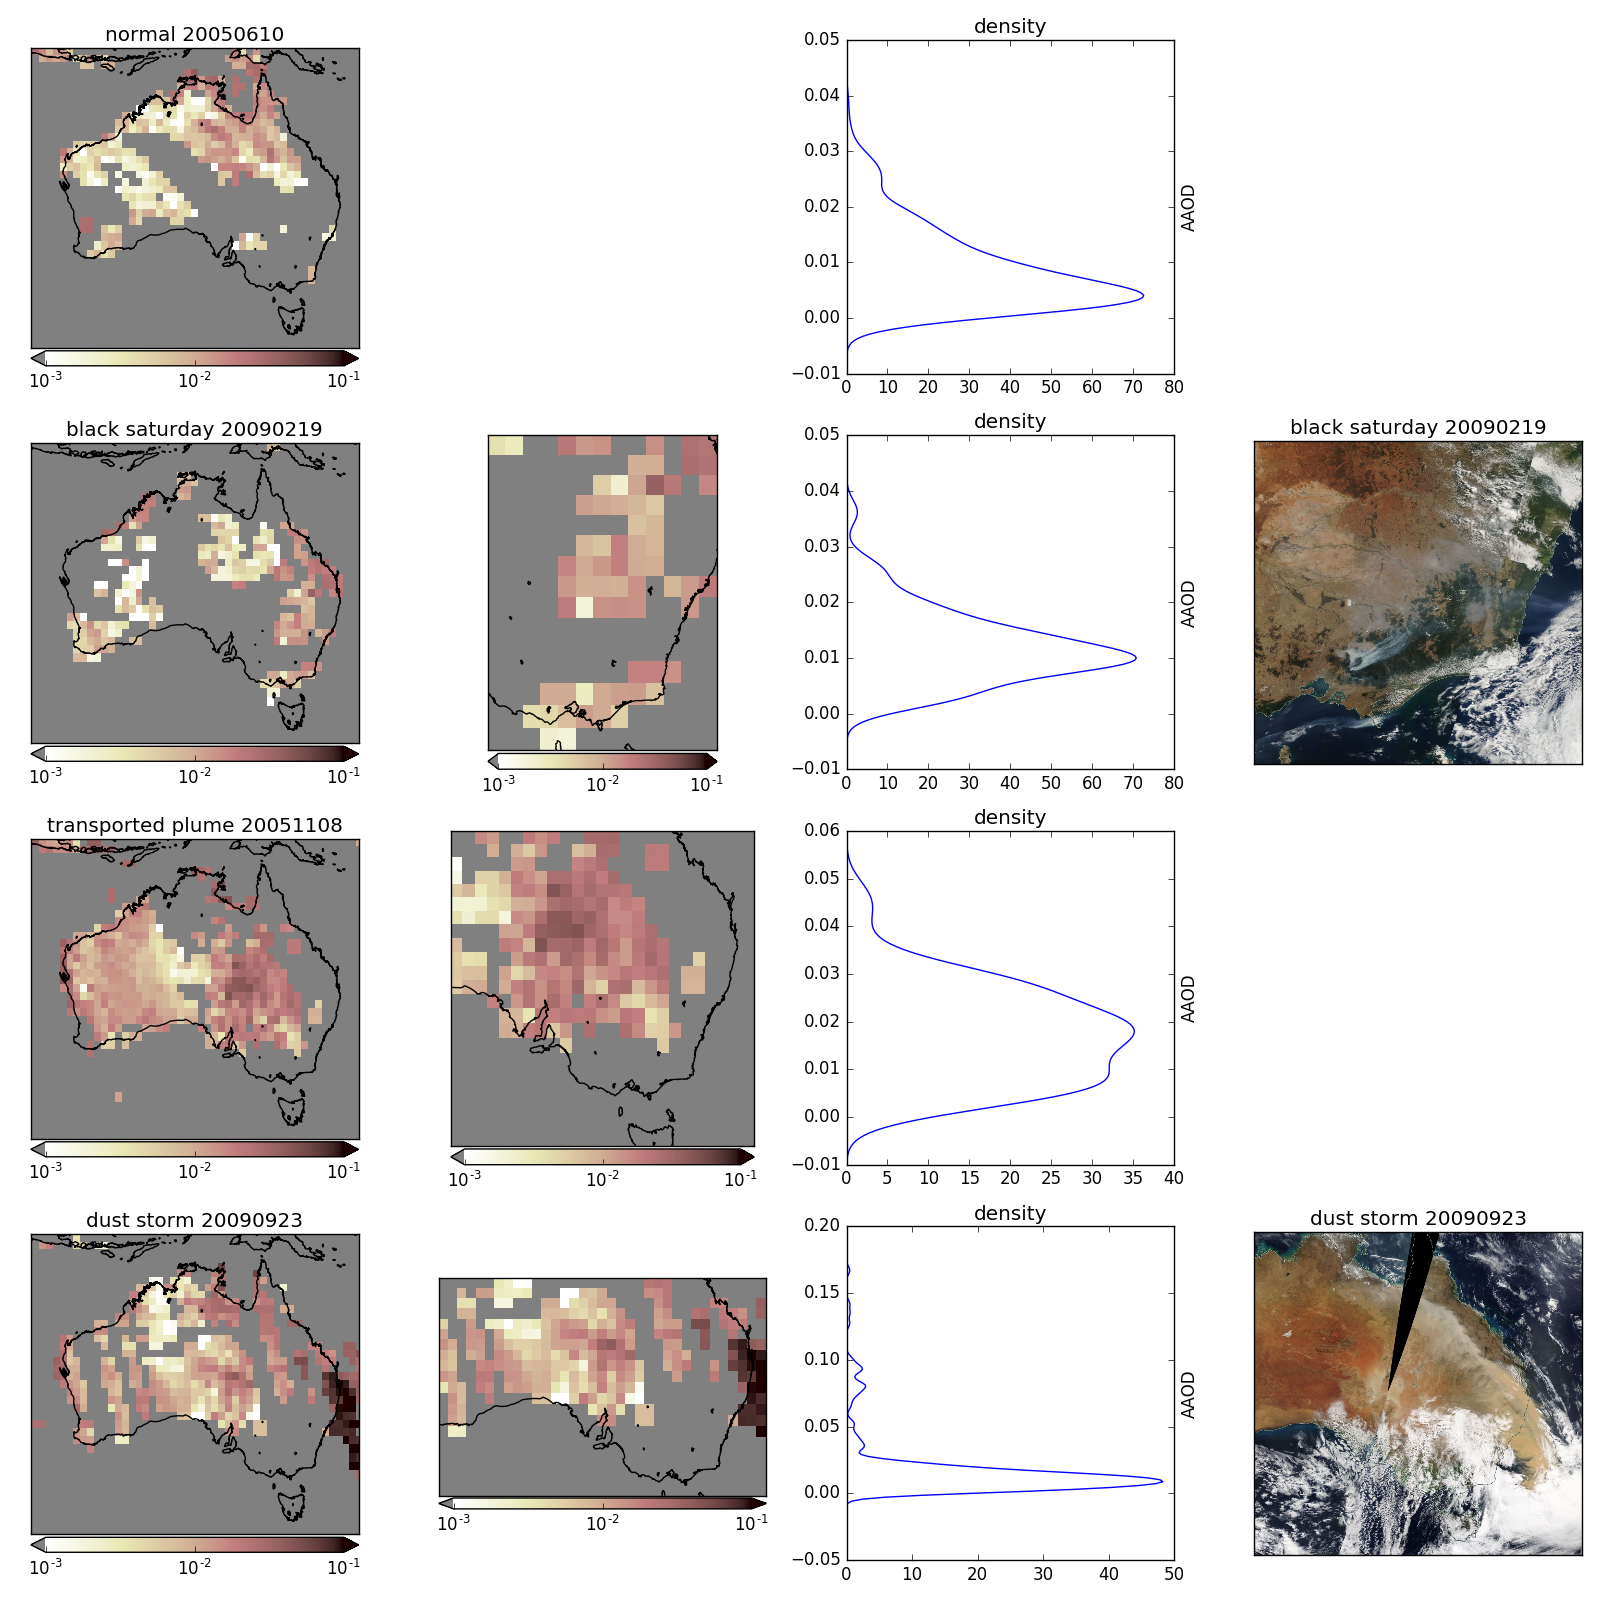
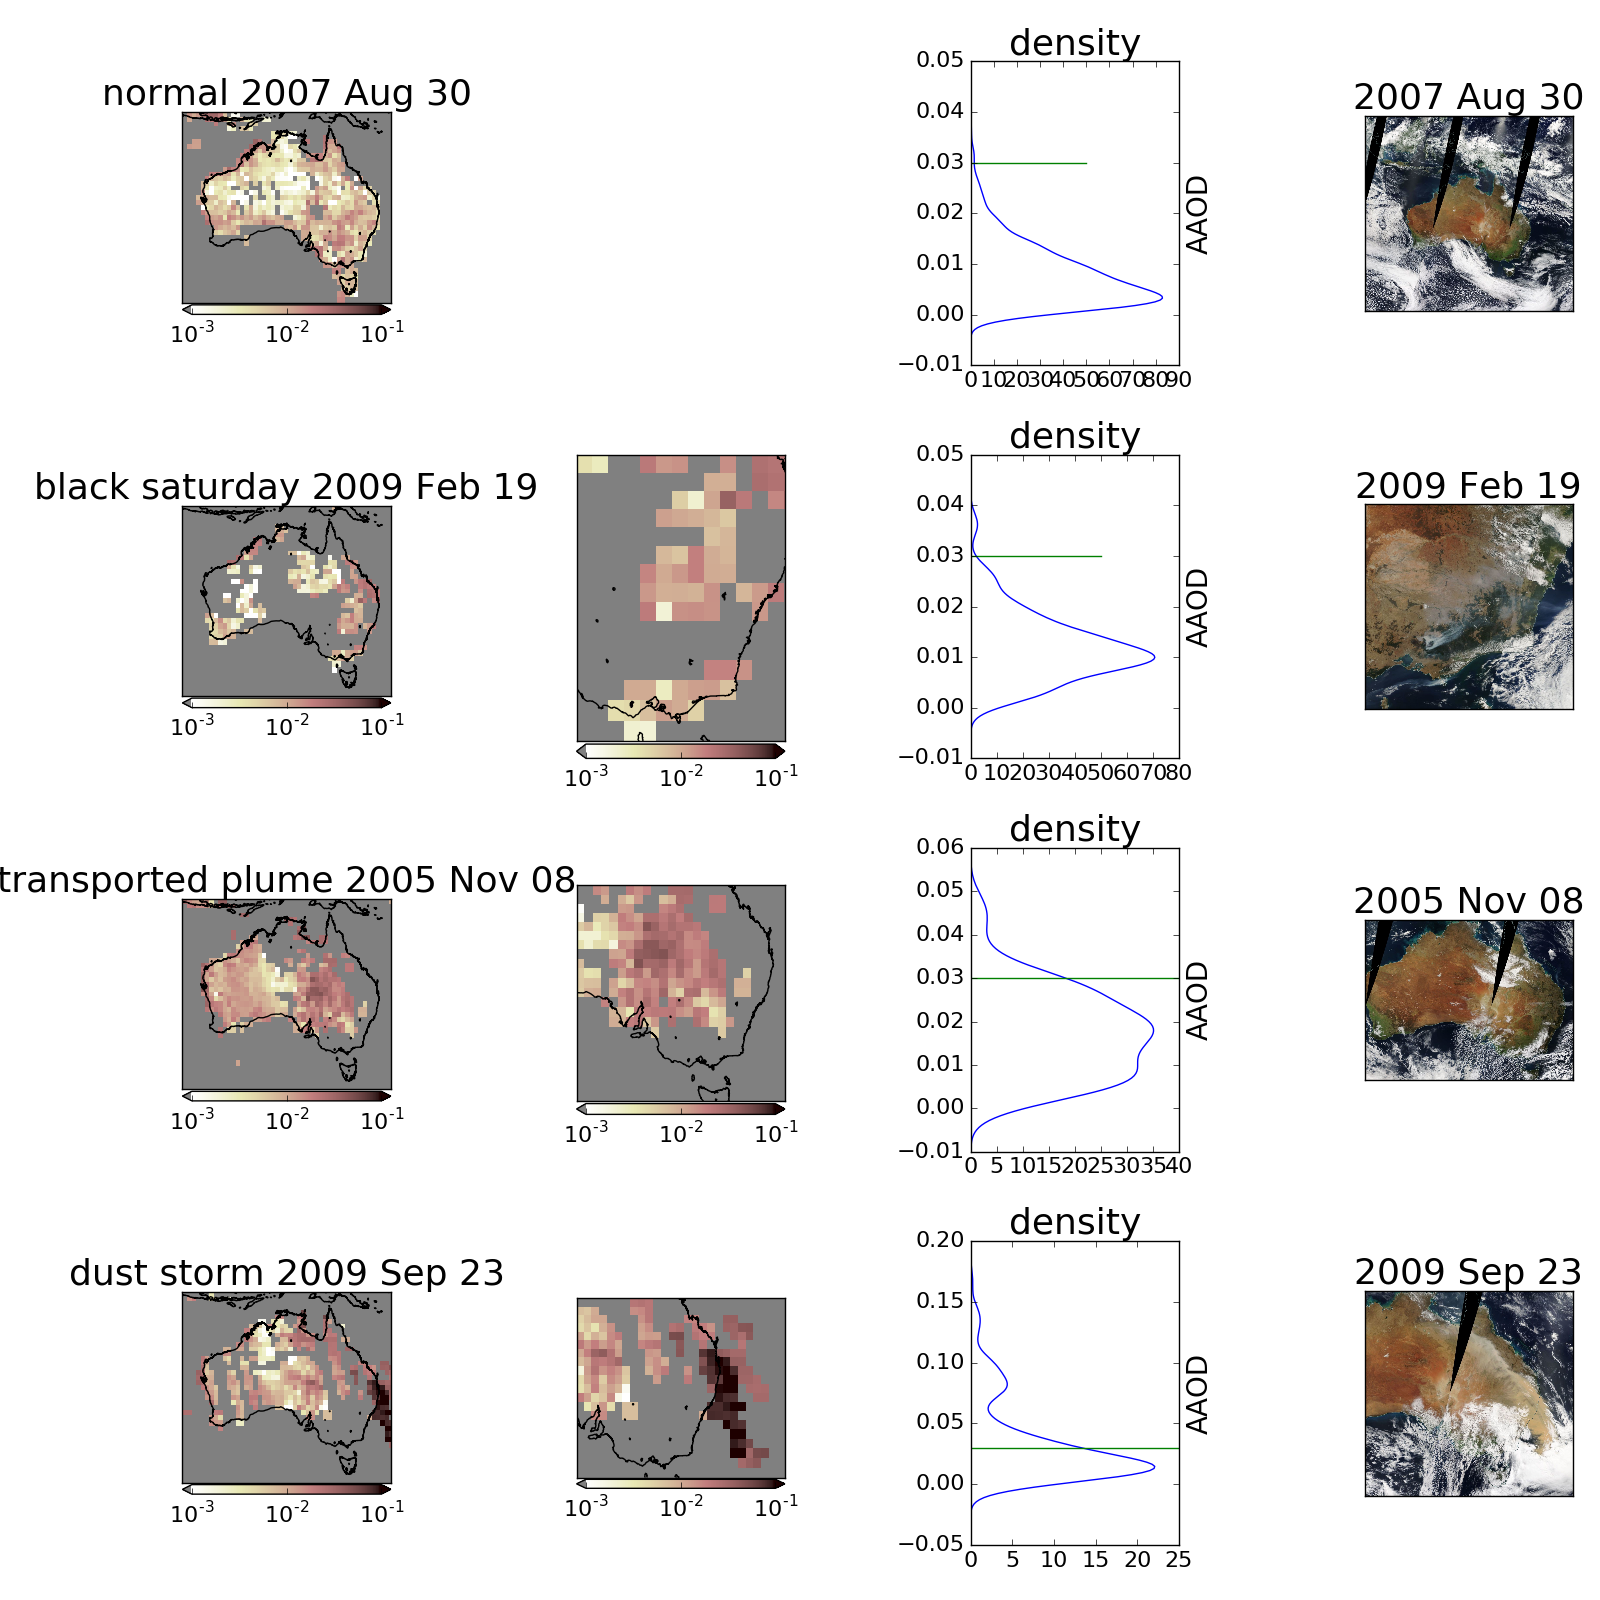
Updated typical aaod plotting

diff --git a/tests.py b/tests.py
@@ -82,40 +82,50 @@ def typical_aaods():
     '''
 
     # read particular days of aaod
-    dates = [ datetime(2005,6,10), datetime(2009,2,19),
+    dates = [ datetime(2007,8,30), datetime(2009,2,19),
               datetime(2005,11,8), datetime(2009,9,23) ]
 
     # plot stuff
     plt.figure(figsize=(16,16))
     titles=['normal','black saturday','transported plume','dust storm']
     region=pp.__AUSREGION__
-    zooms=[None,[-40,140,-25,153],[-42,130,-20,155],[-40,120,-20,155]]
-    TerraModis=[None,
+    zooms=[None,[-40,140,-25,153],[-42,130,-20,155],[-40,135,-20,162]]
+    TerraModis=['Figs/TerraModis_Clear_20070830.png',
                 'Figs/TerraModis_BlackSaturday_20090219.png',
-                None,
+                'Figs/TerraModis_TransportedSmoke_20050811.png',
                 'Figs/TerraModis_DustStorm_20090923.png']
     vmin=1e-3
     vmax=1e-1
     cmapname='pink_r'
     linear=False
+    thresh=0.03
 
     for i,day in enumerate(dates):
         zoom=region
         plt.subplot(4,4,1+i*4)
-
-        title = titles[i] + day.strftime(' %Y%m%d')
+        ymd=day.strftime('%Y %b %d')
+        title = titles[i] +' '+ ymd
         aaod, lats, lons = fio.read_AAOD(day)
-        pp.createmap(aaod, lats, lons, title=title, region=zoom,
-                     vmin=vmin, vmax=vmax, linear=linear, cmapname=cmapname)
+        m, cs, cb = pp.createmap(aaod, lats, lons, title=title, region=zoom,
+                                 vmin=vmin, vmax=vmax, linear=linear,
+                                 cmapname=cmapname)
+
+        # Add hatch over threshhold values (if they exists)
+        #(m, data, lats, lons, thresh, region=None):
+        pp.hatchmap(m,aaod,lats,lons,thresh,region=zoom, hatch='x',color='blue')
 
         if zooms[i] is not None:
             zoom=zooms[i]
             plt.subplot(4,4,2+i*4)
-            pp.createmap(aaod, lats, lons ,region=zoom,
-                     vmin=vmin, vmax=vmax, linear=linear, cmapname=cmapname)
+            m,cs,cb= pp.createmap(aaod, lats, lons ,region=zoom,
+                                  vmin=vmin, vmax=vmax, linear=linear,
+                                  cmapname=cmapname)
+            # Add hatch to minimap also
+            pp.hatchmap(m,aaod,lats,lons,thresh,region=zoom, hatch='x',color='blue')
 
         plt.subplot(4,4,3+i*4)
         aaod, lats, lons = pp.density(aaod,lats,lons,region=zoom, vertical=True)
+        plt.plot([0,50],[thresh,thresh]) # add line for thresh
         plt.title('density')
         plt.ylabel('AAOD')
         plt.gca().yaxis.set_label_position("right")
@@ -126,7 +136,7 @@ def typical_aaods():
         if TerraModis[i] is not None:
             plt.subplot(4,4,4+i*4)
             pp.plot_img(TerraModis[i])
-            plt.title(title)
+            plt.title(ymd)
 
     plt.tight_layout()
     pname='Figs/typical_AAODs.png'
@@ -144,11 +154,15 @@ def smoke_vs_fire(d0=datetime(2005,1,1),dN=datetime(2005,1,31),region=pp.__AUSRE
         dN = d0
 
     dNstr=dN.strftime('%Y%m%d')
+    n_times=(dN-d0).days + 1
 
-    # Read the omhchorp product from d0-dN
-    data=omrp(day0=d0,dayn=dN, keylist=['AAOD','fires'])
-    lats=data.lats
-    lons=data.lons
+    # Read the products from modis and omi, interpolated to 1x1 degrees
+    fires, _dates, _modlats, _modlons = fio.read_fires(d0, dN, latres=1,lonres=1)
+    aaod, _dates, _omilats, _omilons = fio.read_smoke(d0,dN,latres=1,lonres=1)
+
+    assert all(_modlats==_omilats), 'interpolation is not working'
+    lats=_modlats
+    lons=_modlons
     # data fires and aaod = [times, lats, lons]
     # data.fires.shape; data.AAOD.shape
 
@@ -156,15 +170,13 @@ def smoke_vs_fire(d0=datetime(2005,1,1),dN=datetime(2005,1,31),region=pp.__AUSRE
 
     titles=['Fires','AAOD$_{500nm}$']
     linear=[True,False]
-    # average over time:
-    fires=data.fires.astype(np.float)
-    aaod=data.AAOD
+    fires=fires.astype(np.float)
     fires[fires<0] = np.NaN
-    aaod[aaod<0]   = np.NaN
+    aaod[aaod<0]   = np.NaN # should do nothing
+
     # Average over time
-    if data.n_times > 1:
-        fires=np.nanmean(fires,axis=0)
-        aaod=np.nanmean(aaod,axis=0)
+    fires=np.nanmean(fires,axis=0)
+    aaod=np.nanmean(aaod,axis=0)
 
     for i,arr in enumerate([fires,aaod]):
 
@@ -1972,7 +1984,13 @@ if __name__ == '__main__':
     #check_HEMCO_restarts()
 
     #analyse_VCC_pp(oneday=False, ausonly=True)
-    smoke_vs_fire()
+    typical_aaods()
+
+    #for dates in [ [datetime(2005,1,1),datetime(2005,1,8)],
+    #               [datetime(2005,2,1),datetime(2005,2,28)],
+    #               [datetime(2006,4,1),datetime(2006,4,14)]]:
+    #    smoke_vs_fire(dates[0],dates[1])
+
     #plot_VCC_rsc_gc_pp(d0=datetime(2005,3,1),dn=datetime(2005,3,31))
     #plot_swaths()
     # AMF tests and correlations

diff --git a/utilities/fio.py b/utilities/fio.py
@@ -258,14 +258,14 @@ def read_smoke(d0,dN, latres=0.25, lonres=0.3125):
     '''
     dates=util.list_days(d0,dN,month=False)
     smoke0,lats,lons=read_AAOD_interpolated(date=d0,latres=latres,lonres=lonres)
-    if len(dates)==1:
-        return smoke0,dates,lats,lons
+
 
     retsmoke=np.zeros([len(dates),len(lats),len(lons)])
     retsmoke[0] = smoke0
-    for i,day in enumerate(dates[1:]):
-        smokei,lats,lons=read_AAOD_interpolated(date=day,latres=latres,lonres=lonres)
-        retsmoke[i+1] = smokei
+    if len(dates)==1:
+        for i,day in enumerate(dates[1:]):
+            smokei,lats,lons=read_AAOD_interpolated(date=day,latres=latres,lonres=lonres)
+            retsmoke[i+1] = smokei
 
     return retsmoke, dates, lats, lons
 
@@ -314,14 +314,14 @@ def read_fires(d0, dN, latres=0.25, lonres=0.3125):
     '''
     dates=util.list_days(d0,dN,month=False)
     fire0,lats,lons=read_MOD14A1_interpolated(date=d0,latres=latres,lonres=lonres)
-    if len(dates) == 1:
-        return fire0,lats,lons
+
 
     retfires=np.zeros([len(dates),len(lats),len(lons)])
     retfires[0] = fire0
-    for i,day in enumerate(dates[1:]):
-        firei,lats,lons=read_MOD14A1_interpolated(date=day,latres=latres,lonres=lonres)
-        retfires[i+1] = firei
+    if len(dates) > 1:
+        for i,day in enumerate(dates[1:]):
+            firei,lats,lons=read_MOD14A1_interpolated(date=day,latres=latres,lonres=lonres)
+            retfires[i+1] = firei
 
     return retfires, dates, lats, lons
 

diff --git a/utilities/plotting.py b/utilities/plotting.py
@@ -225,6 +225,7 @@ def createmap(data, lats, lons, make_edges=False, GC_shift=True,
               cmapname=None, fillcontinents=None):
     '''
         Pass in data[lat,lon], lats[lat], lons[lon]
+        Returns map, cs, cb
     '''
 
     # Create a basemap map with region as inputted
@@ -381,6 +382,30 @@ def density(data,lats,lons,region=None, **kdeargs):
     #seaborn.set_style('whitegrid')
     seaborn.kdeplot(Y.flatten(),**kdeargs)
     return Y,lats,lons
+
+def hatchmap(m, data, lats, lons, thresh, region=None,hatch='...',color='k'):
+    '''
+        add hatching to a basemap map
+        optionally subset to a region
+
+        region=[S,W,N,E]
+        hatch = one or more of: \ / | - + x o O . *
+    '''
+    data=np.copy(data)
+    if region is not None:
+        subset=util.lat_lon_subset(lats,lons,region=region,data=[data])
+        data=subset['data'][0]
+        lats=subset['lats']
+        lons=subset['lons']
+
+    # Remove nans so they are not hatched
+    data[np.isnan(data)] = thresh-1
+
+    # Set up mask of everywhere under the threshhold
+    aaod_masked=np.ma.masked_less_equal(data,thresh)
+    mlons,mlats=np.meshgrid(lons,lats)
+    mx,my = m(mlons,mlats)
+    m.pcolor(mx, my, aaod_masked, hatch=hatch, color=color, alpha=0.)
 
 def plot_img(path):
     ''' '''
